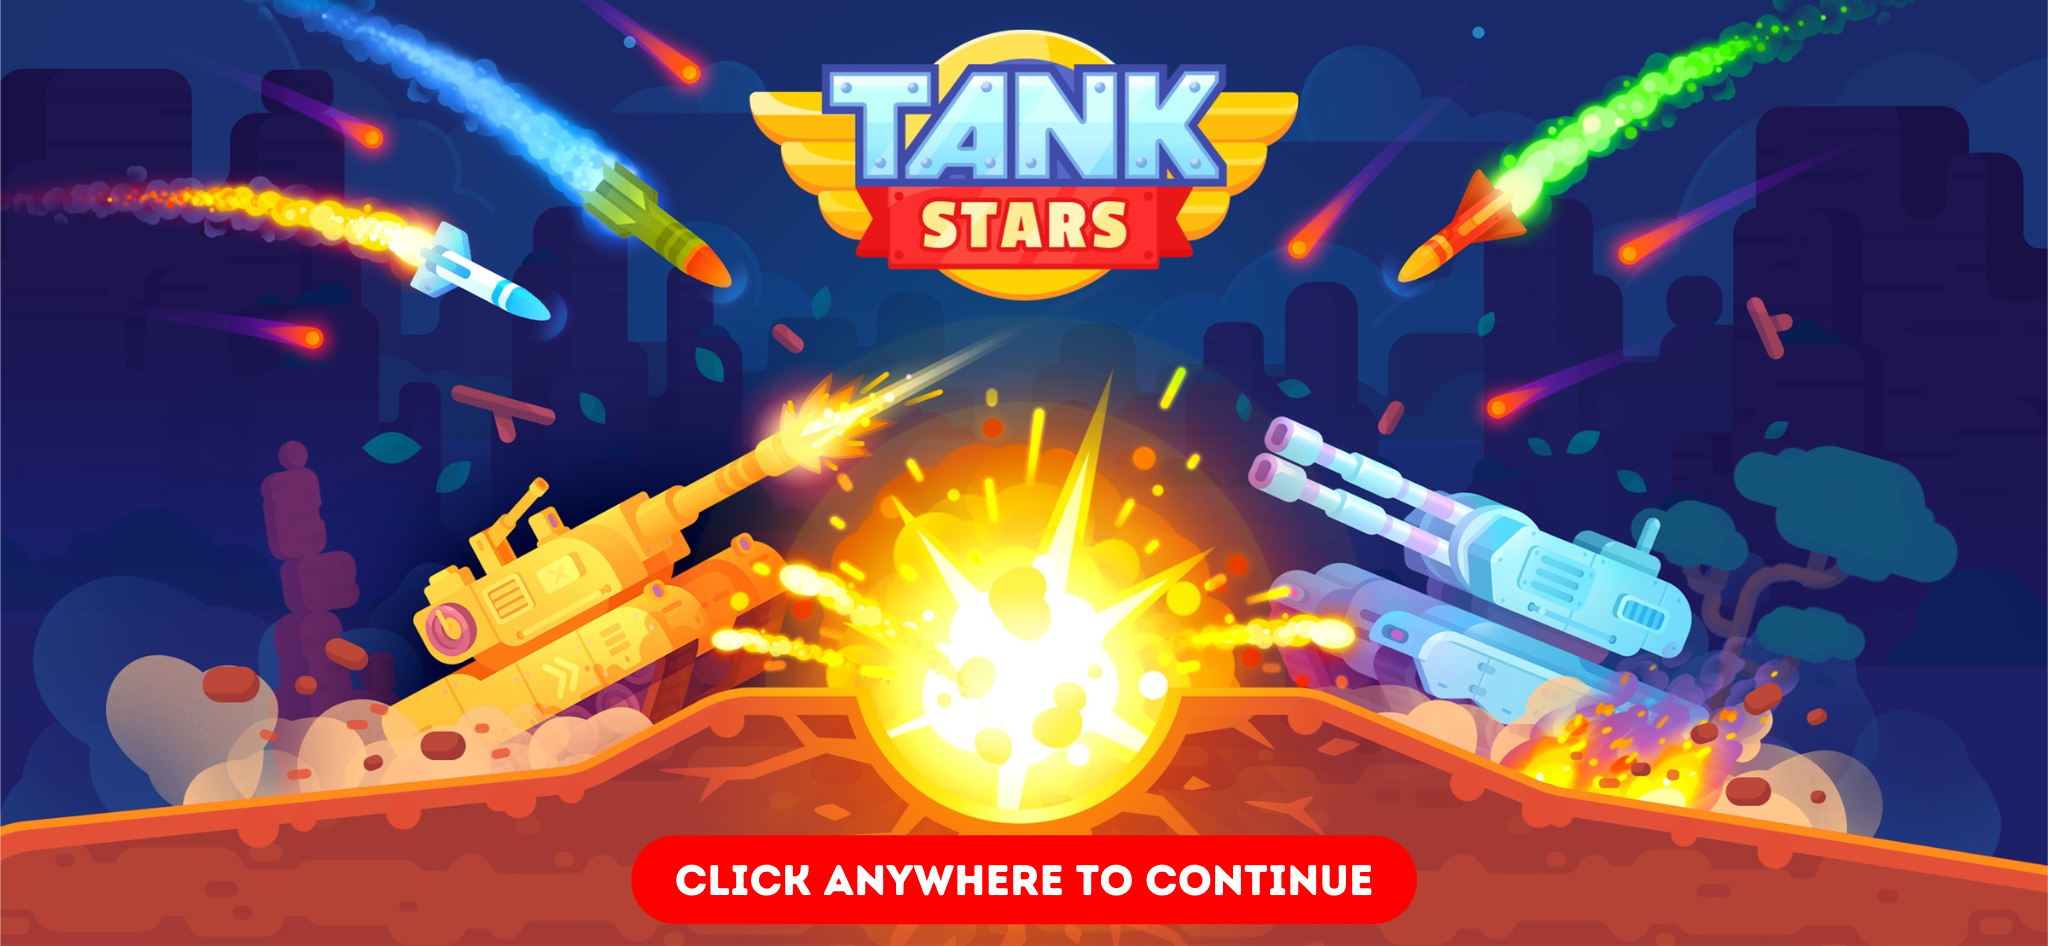
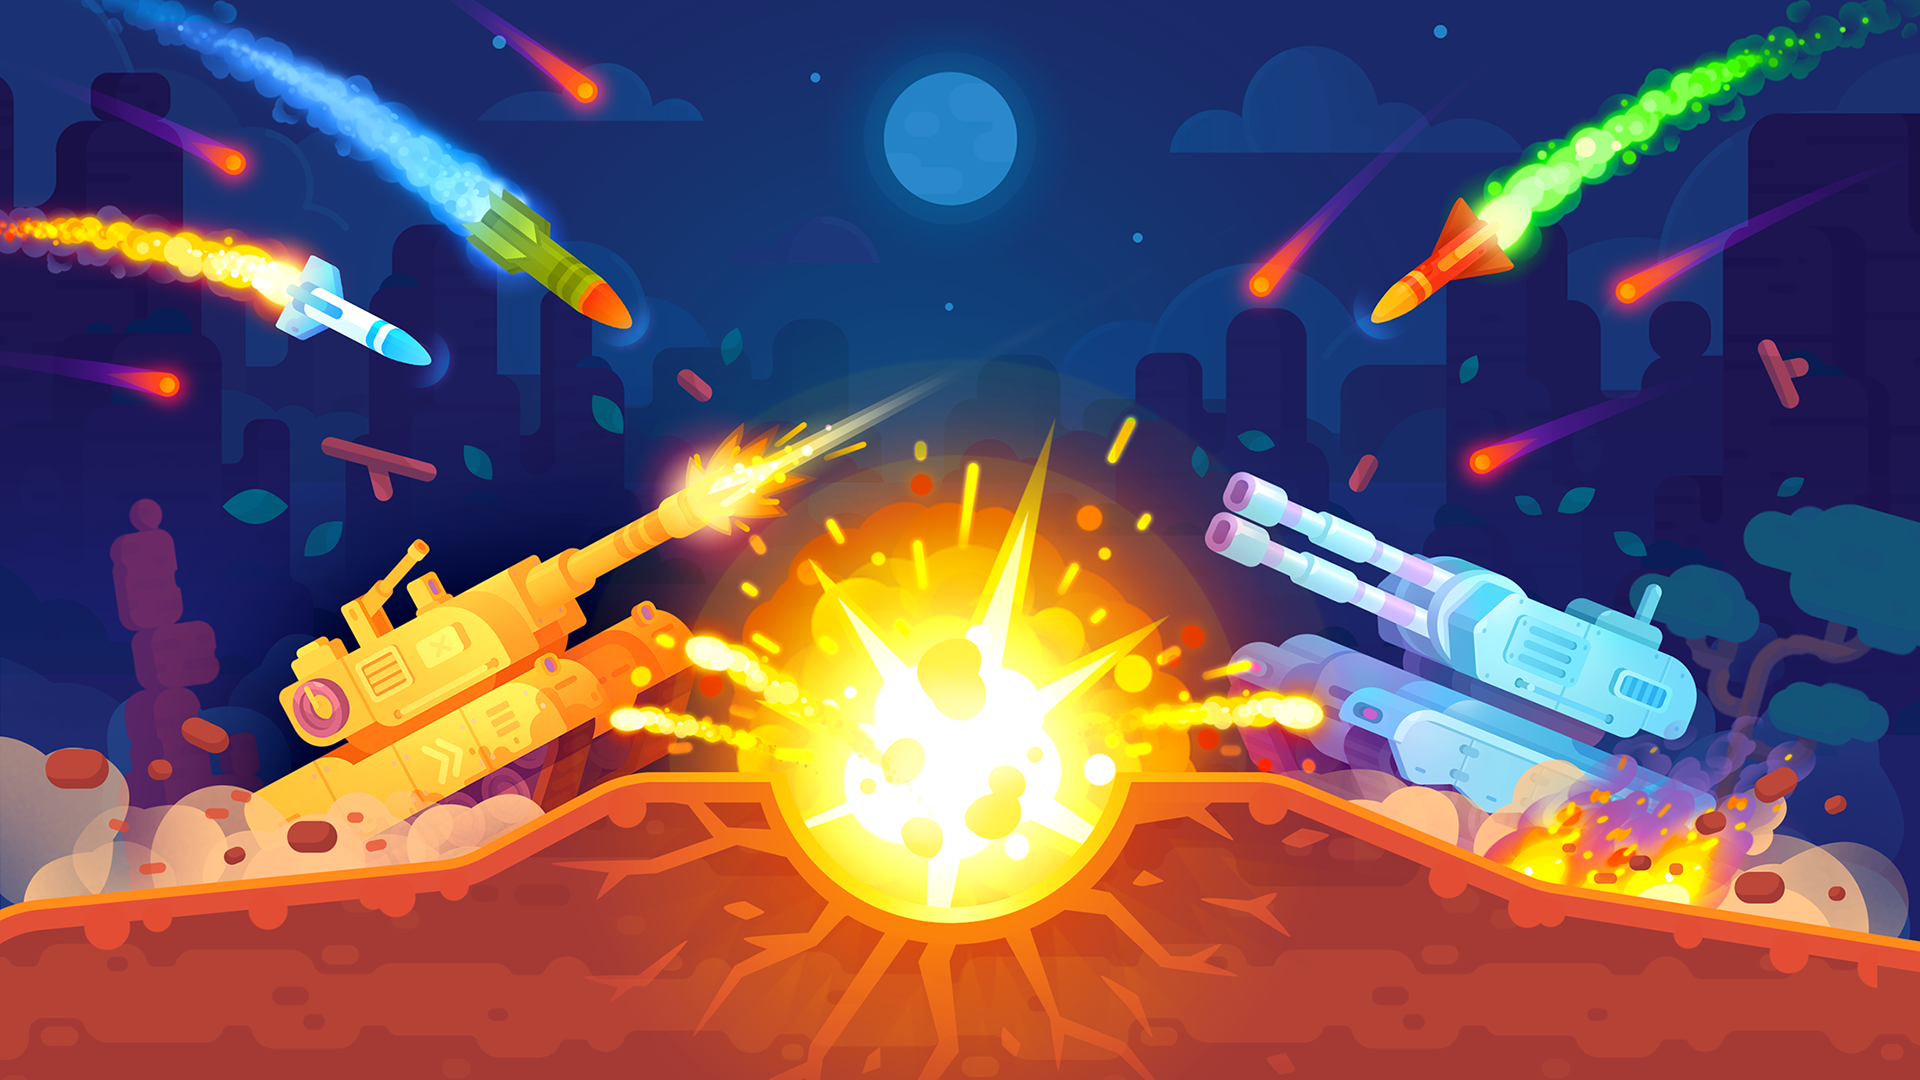
background

diff --git a/core/src/com/firstgame/game/GameScreen.java b/core/src/com/firstgame/game/GameScreen.java
@@ -17,7 +17,7 @@ public class GameScreen implements Screen {
     public GameScreen(main mainLoad) {
         this.mainLoad = mainLoad;
         batch = new SpriteBatch();
-        start = new Texture("Menu/Images/stare.jpg");
+        start = new Texture("Menu/Images/mainLoading.png");
         sprite_start = new Sprite(start);
         sprite_start.setSize(Gdx.graphics.getWidth(), Gdx.graphics.getHeight());
 //        menuMusic = Gdx.audio.newMusic(Gdx.files.internal("Menu/Music/rickRolled.mp3"));
